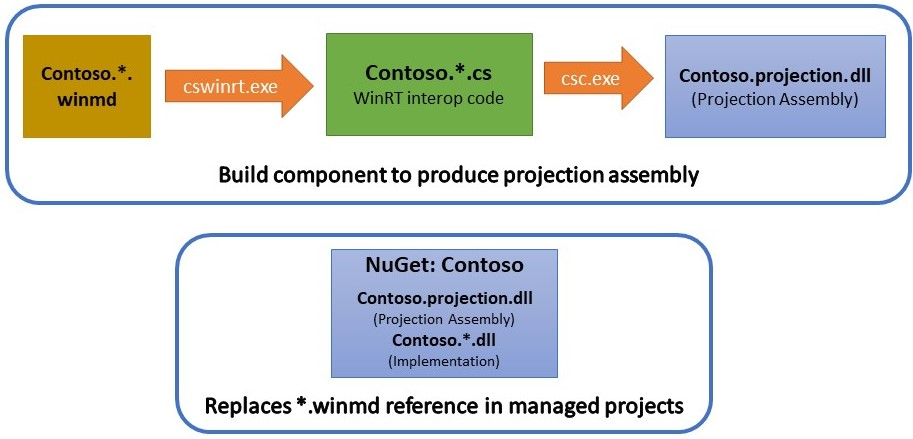
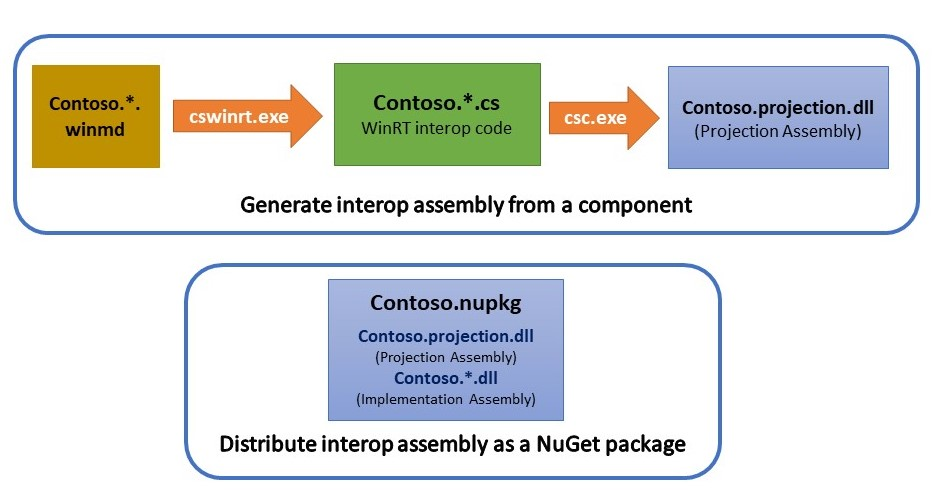
update diagrams and description, structure doc for winrt.runtime

Changed region(s): [[0.0, 0.0, 1.0, 0.4738], [0.184, 0.5034, 0.7974, 1.0]]

diff --git a/STRUCTURE.md b/STRUCTURE.md
@@ -14,11 +14,17 @@ See also [Deploying .natvis files](https://docs.microsoft.com/en-us/visualstudio
 
 ## The [`WinRT.Runtime`](/WinRT.Runtime) folder
 
-Contains the WinRT.Runtime project for building the C#/WinRT runtime assembly, winrt.runtime.dll.  There are two versions of this assembly, providing an abstraction layer over both .NET Standard 2.0 and .NET 5 runtimes.  While all code generated by cswinrt.exe is compatible with .NET Standard 2.0, there are runtime differences which must be addressed.  The primary difference is that the .NET 5 winrt.runtime.dll provides Xaml reference tracking support, which is necessary for WinUI 3 applications to manage memory correctly.  Future performance enhancements, such as function pointer support, may also be limited to the .NET 5 winrt.runtime.dll.
+Contains the WinRT.Runtime project for building the C#/WinRT runtime assembly, WinRT.Runtime.dll. There are two versions of this assembly, providing an abstraction layer over both .NET Standard 2.0 and .NET 5 runtimes.  While all code generated by cswinrt.exe is compatible with .NET Standard 2.0, there are runtime differences which must be addressed.  The primary difference is that the .NET 5 WinRT.Runtime.dll provides Xaml reference tracking support, which is necessary for WinUI 3 applications to manage memory correctly. The runtime assembly implements the following features for all projected C#/WinRT types:
+
+- WinRT activation and marshaling logic
+- Custom type mappings, primarily for WinUI
+- [CCW](https://docs.microsoft.com/dotnet/standard/native-interop/com-callable-wrapper) and [RCW](https://docs.microsoft.com/dotnet/standard/native-interop/runtime-callable-wrapper) management
+- IDynamicInterfaceCastable and ComImport casting support
+- Extension methods common to projected types
 
 ## The [`nuget`](/nuget) folder
 
-Contains source files for producing a C#/WinRT NuGet package, which is regularly built, signed, and published to nuget.org by Microsoft.  The C#/WinRT NuGet package contains the cswinrt.exe compiler, and both versions of the winrt.runtime.dll.
+Contains source files for producing a C#/WinRT NuGet package, which is regularly built, signed, and published to nuget.org by Microsoft.  The C#/WinRT NuGet package contains the cswinrt.exe compiler, and both versions of the WinRT.Runtime.dll.
 
 ## [`TestWinRT`](https://github.com/microsoft/TestWinRT/)
 

diff --git a/README.md b/README.md
@@ -8,17 +8,21 @@ WinRT APIs are defined in `*.winmd` format, and C#/WinRT includes tooling that g
 
 ## C#/WinRT Architecture
 
-### Component Authors
+The C#/WinRT runtime assembly, `WinRT.Runtime.dll`, is required by all C#/WinRT assemblies.  It provides an abstraction layer over the .NET runtime, supporting both .NET Standard 2.0 and .NET 5. The runtime assembly implements several features for all projected C#/WinRT types, including WinRT activation and marshaling logic and [COM wrapper](https://docs.microsoft.com/dotnet/standard/native-interop/com-wrappers) lifetime management.
 
-Component Authors need to build a C#/WinRT projection for .NET5+ targets.
+The following diagrams demonstrate how C#/WinRT is used to create and reference interop assemblies.
+
+### Create and distribute an interop assembly
+
+Component authors need to build a C#/WinRT projection assembly for .NET5+ consumers. In the diagram below, the **cswinrt.exe** tool processes Windows Metadata (`*.winmd`) files in the "Contoso" namespace to create projection source files. These source files are then compiled into an interop projection assembly named `Contoso.projection.dll`. The projection assembly can then be distributed along with the implementation assemblies (`Contoso.*.dll`) as a NuGet package.
 
 <img alt="Creating projection"
     src="Diagram_CreateProjection.jpg"
     width="70%" height="50%">
 
-### Application Developers
+### Reference an interop assembly
 
-.NET5+ apps reference the NuGet package, which pulls in the projection assembly instead of a winmd.
+Application developers on .NET5+ can reference C#/WinRT interop assemblies by adding a reference to the interop NuGet package. This replaces any `*.winmd` references. The .NET5+ application includes `WinRT.Runtime.dll` which handles WinRT type activation logic.
 
 <img alt = "Adding projection"
     src="Diagram_AddProjection.jpg"
